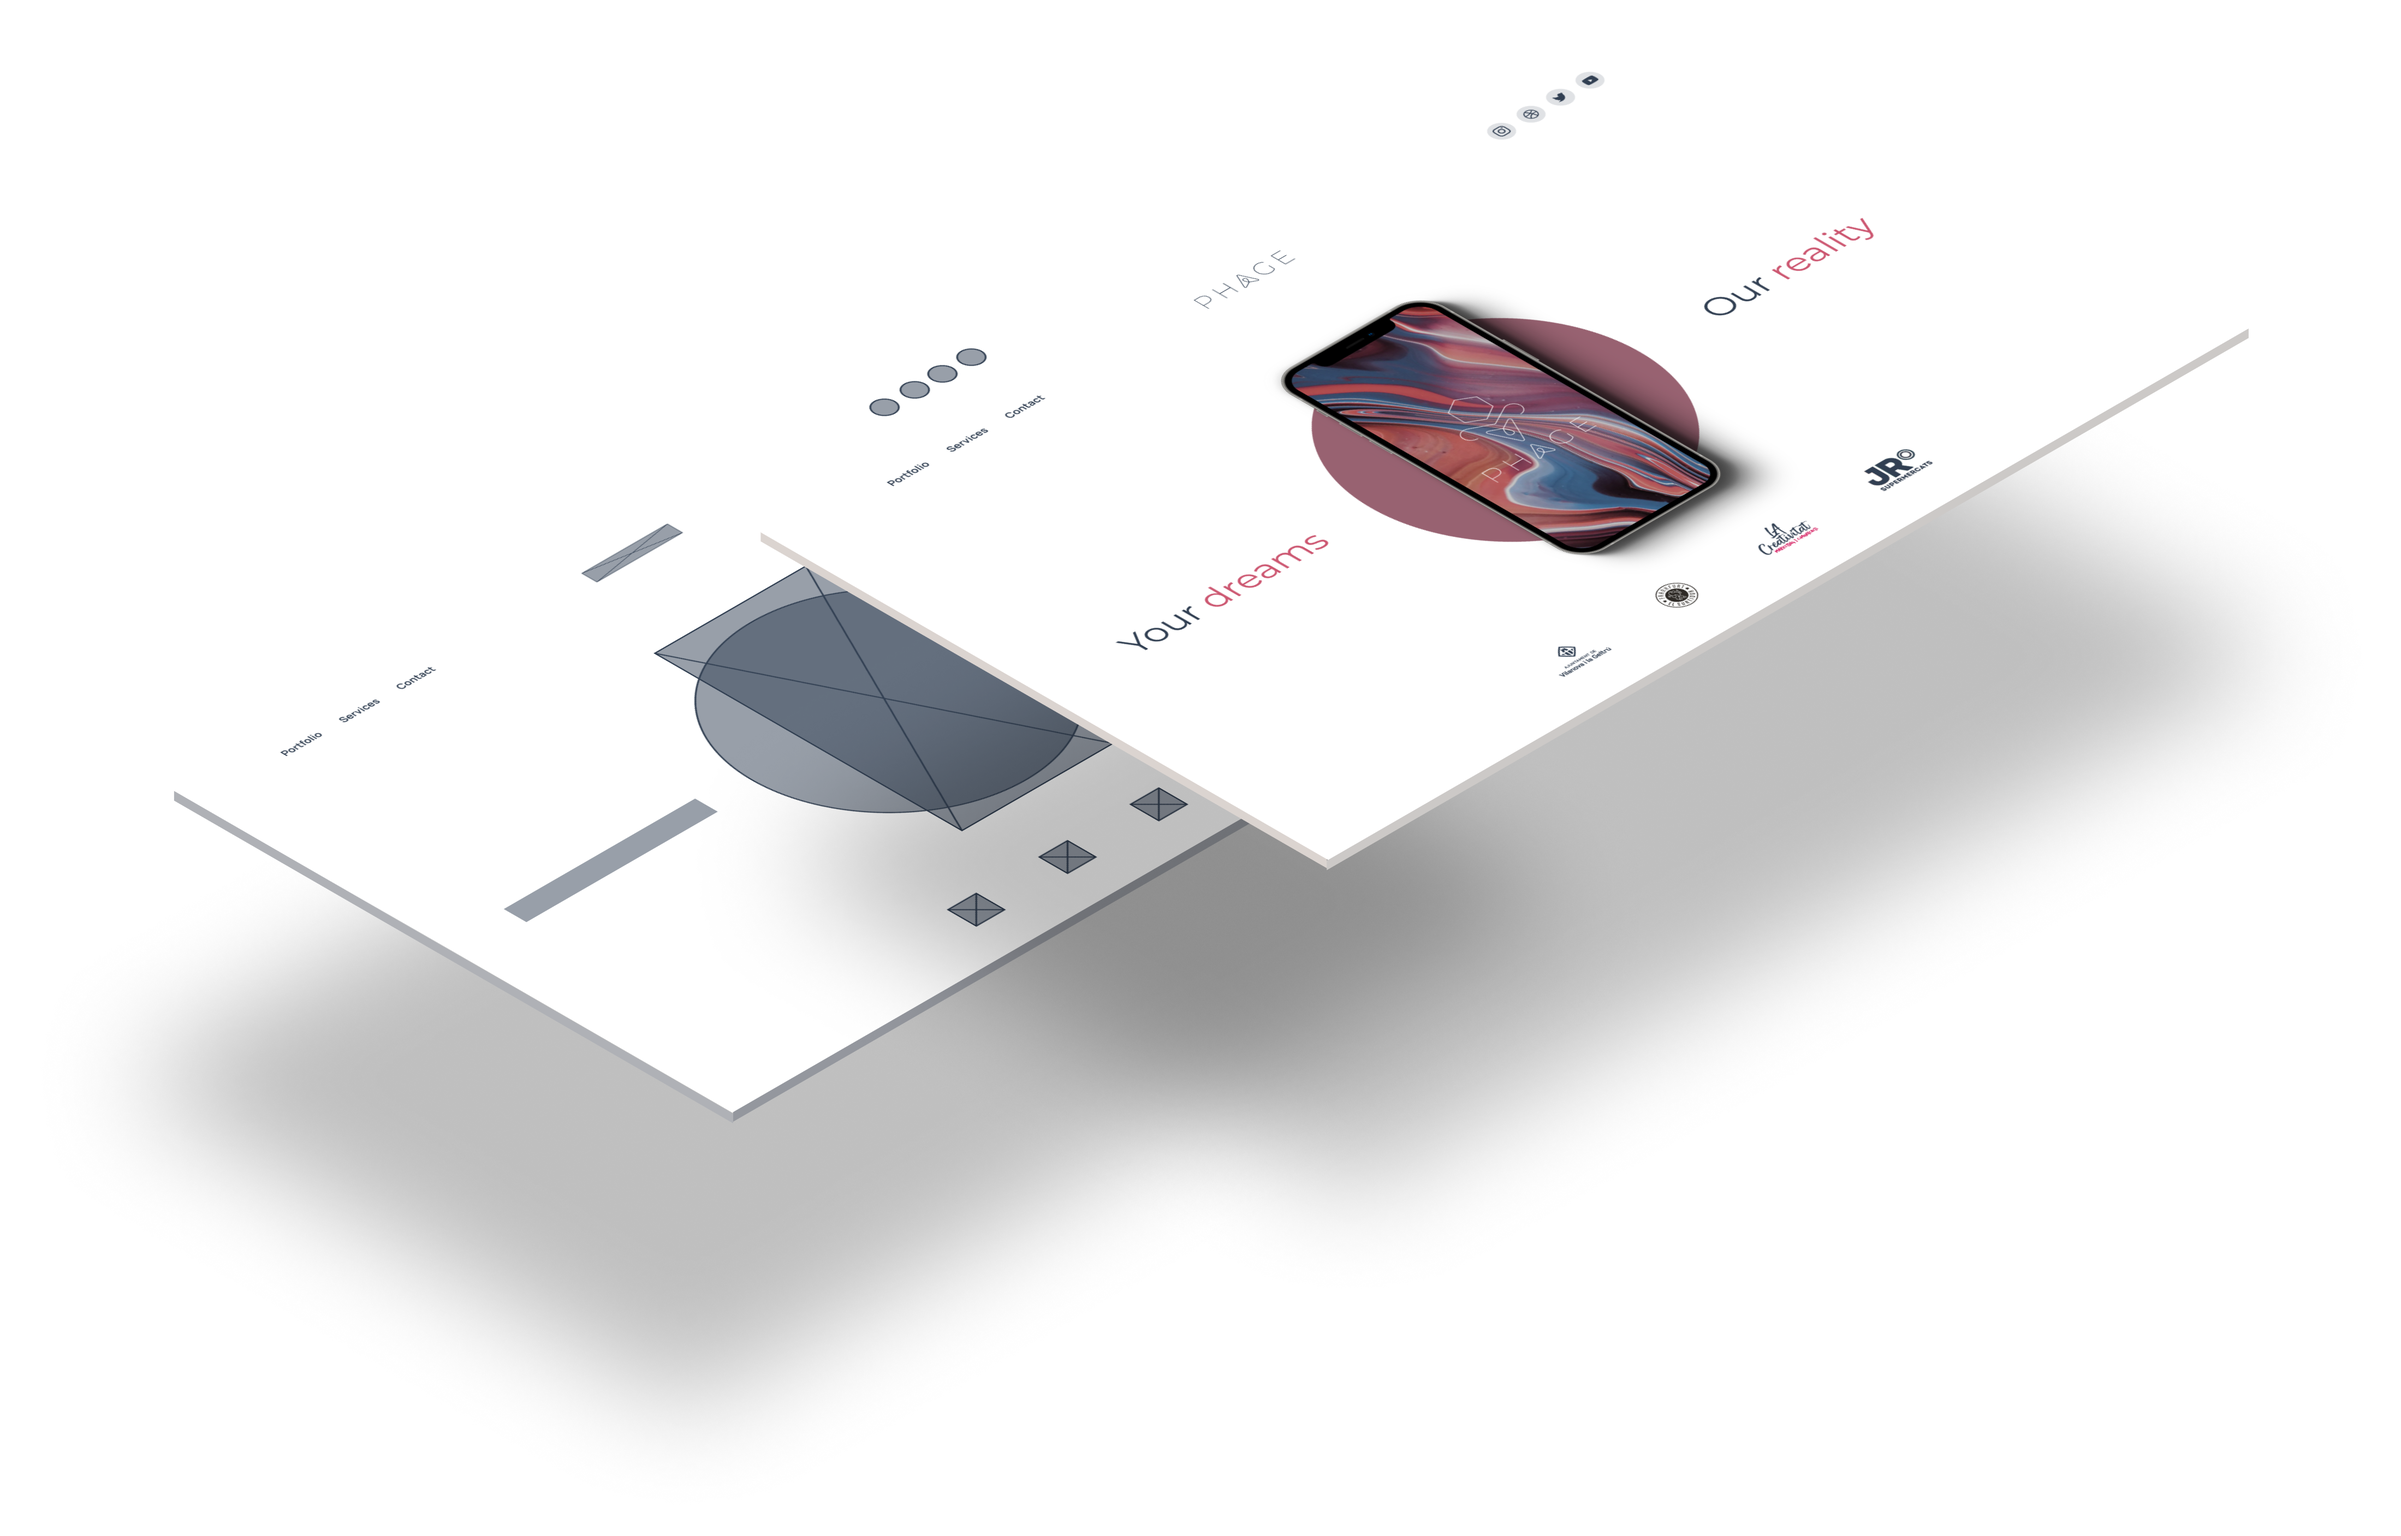
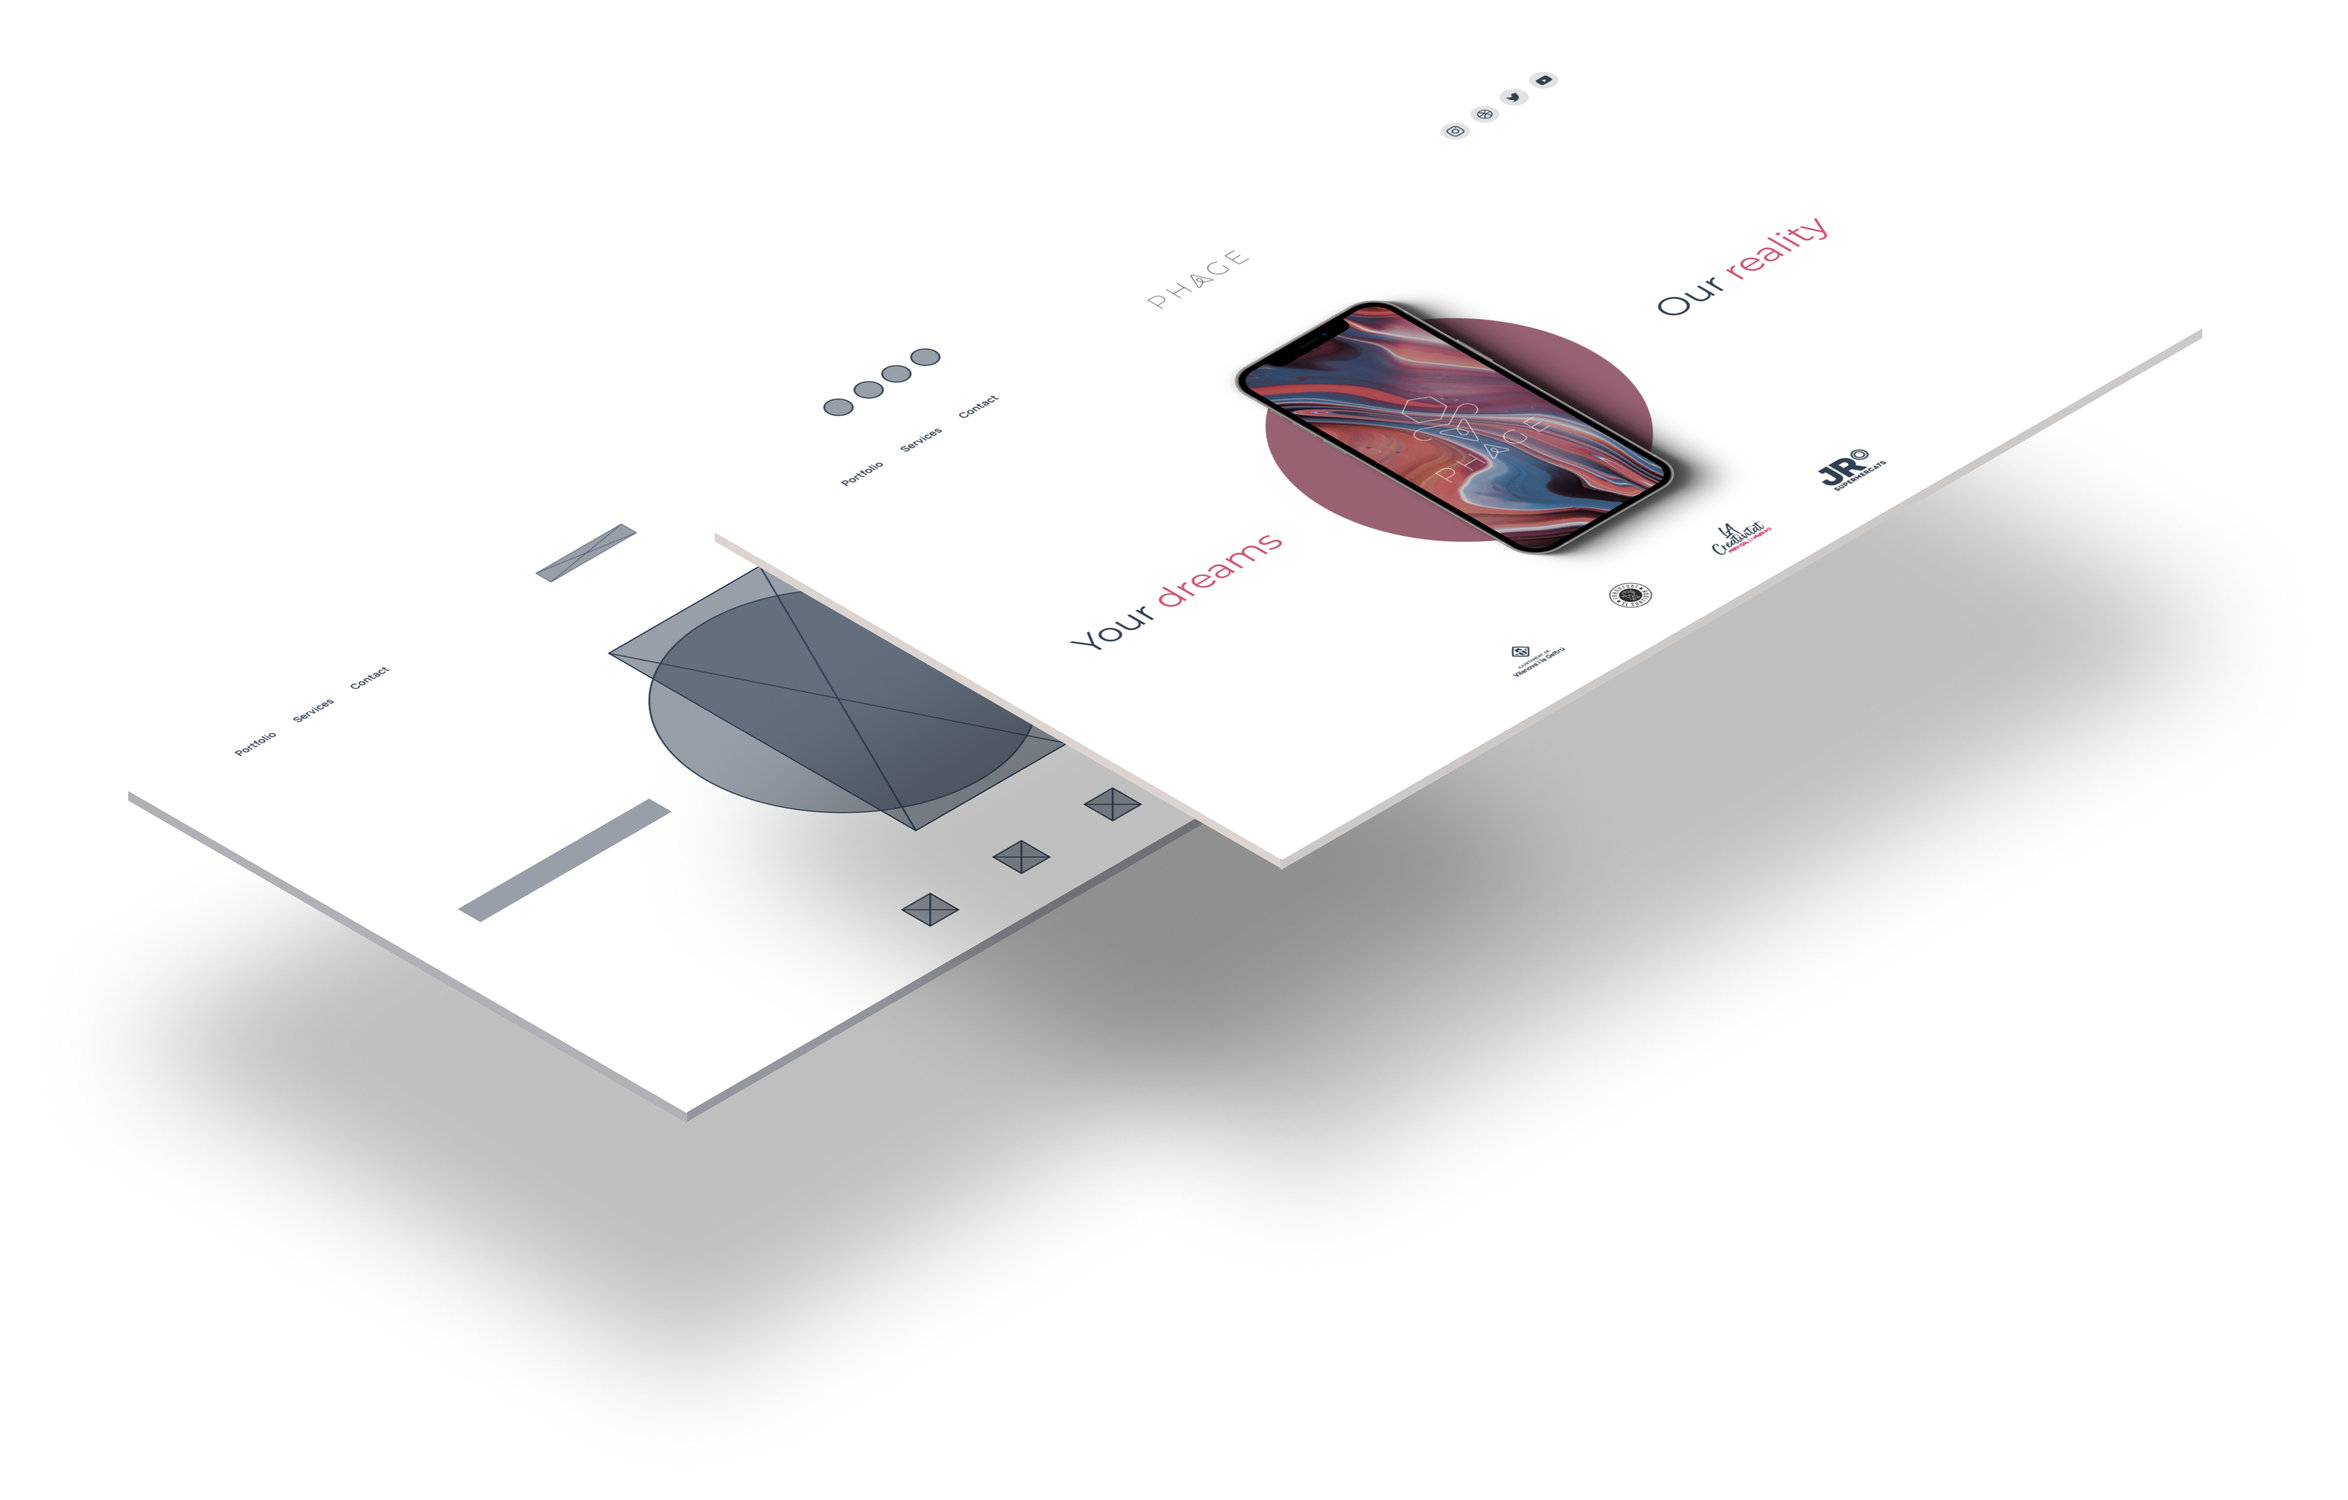
wireframe image adjusted

diff --git a/sections/Hero.js b/sections/Hero.js
@@ -2,7 +2,7 @@ import Image from "next/image";
 
 const Hero = () => {
   return (
-    <div className="container mx-0 my-auto">
+    <div className="container  my-auto">
       <div className="row">
         <div className="col-lg-6">
           <div className="text-lg-start  text-center">
@@ -19,8 +19,8 @@ const Hero = () => {
           <Image
             className="hero-img"
             src="/images/wireframes.png"
-            width={4398}
-            height={2814}
+            width={4302}
+            height={2748}
             layout="responsive"
           />
         </div>

diff --git a/styles/globals.css b/styles/globals.css
@@ -89,7 +89,7 @@ a {
 h1{
   font-family: 'Montserrat';
   font-weight: 300;
-  --max-size: 70;
+  --max-size: 69;
   --min-size: 45;
   font-size: var(--responsive);
   line-height: 150%;
